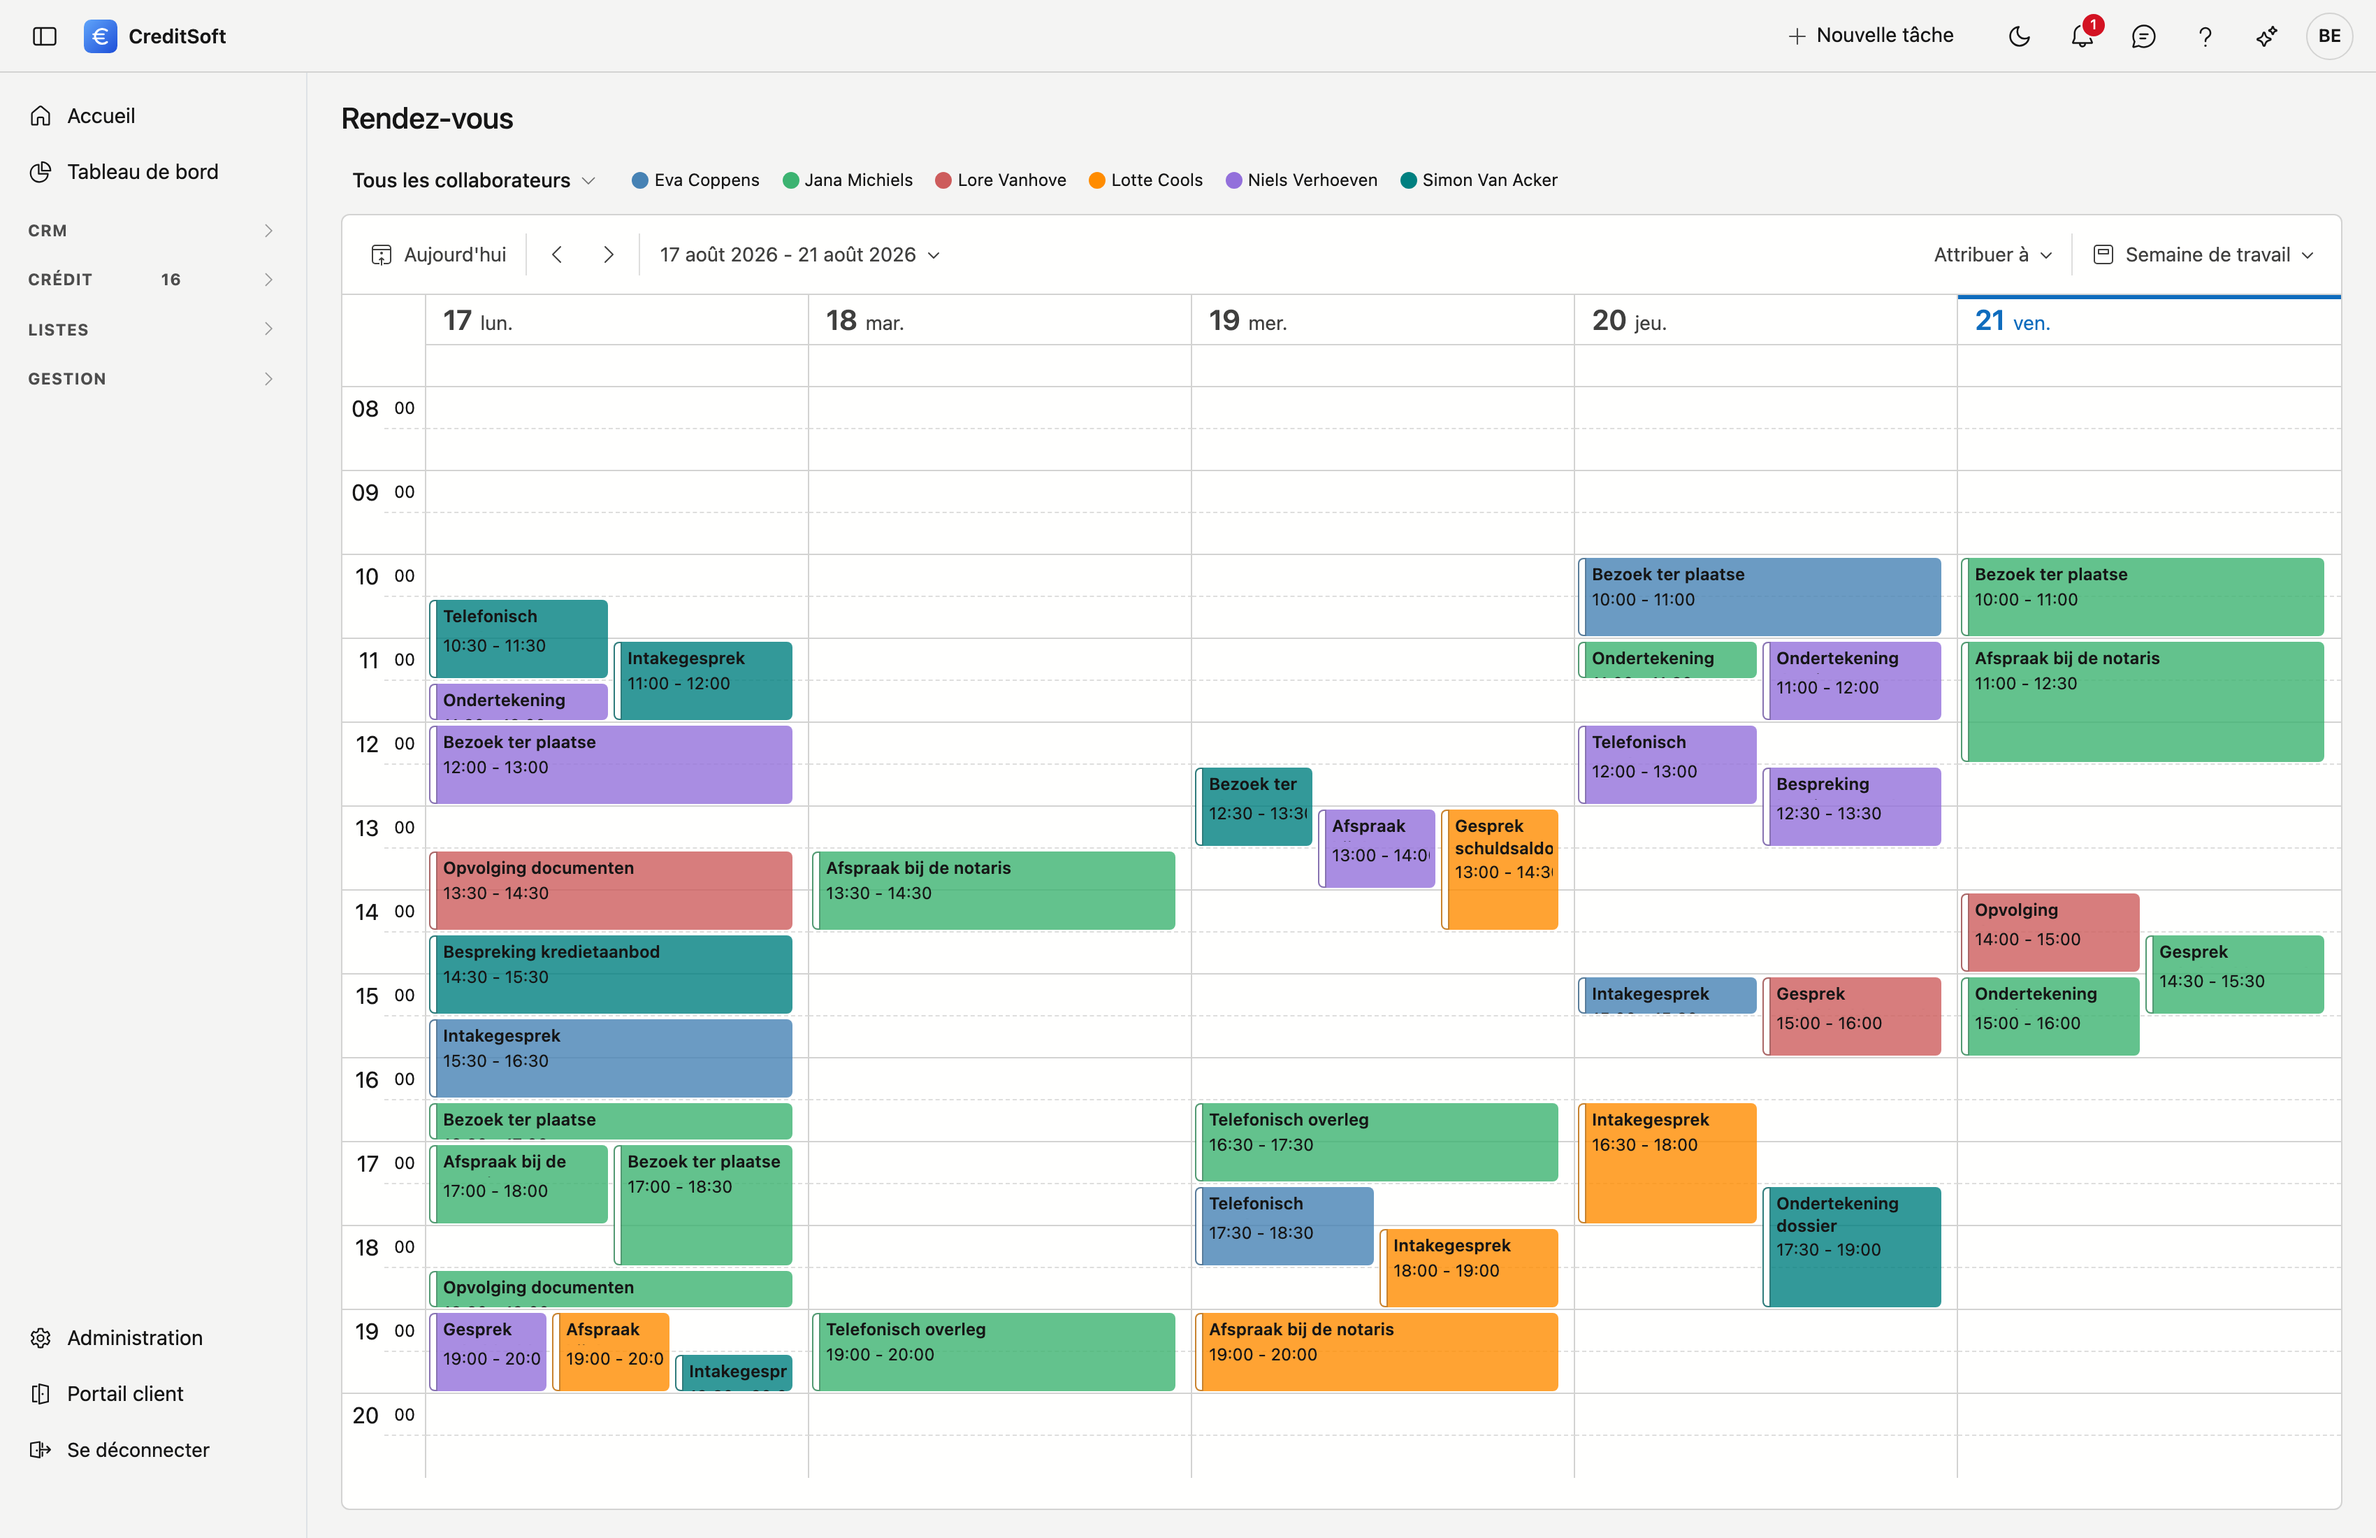
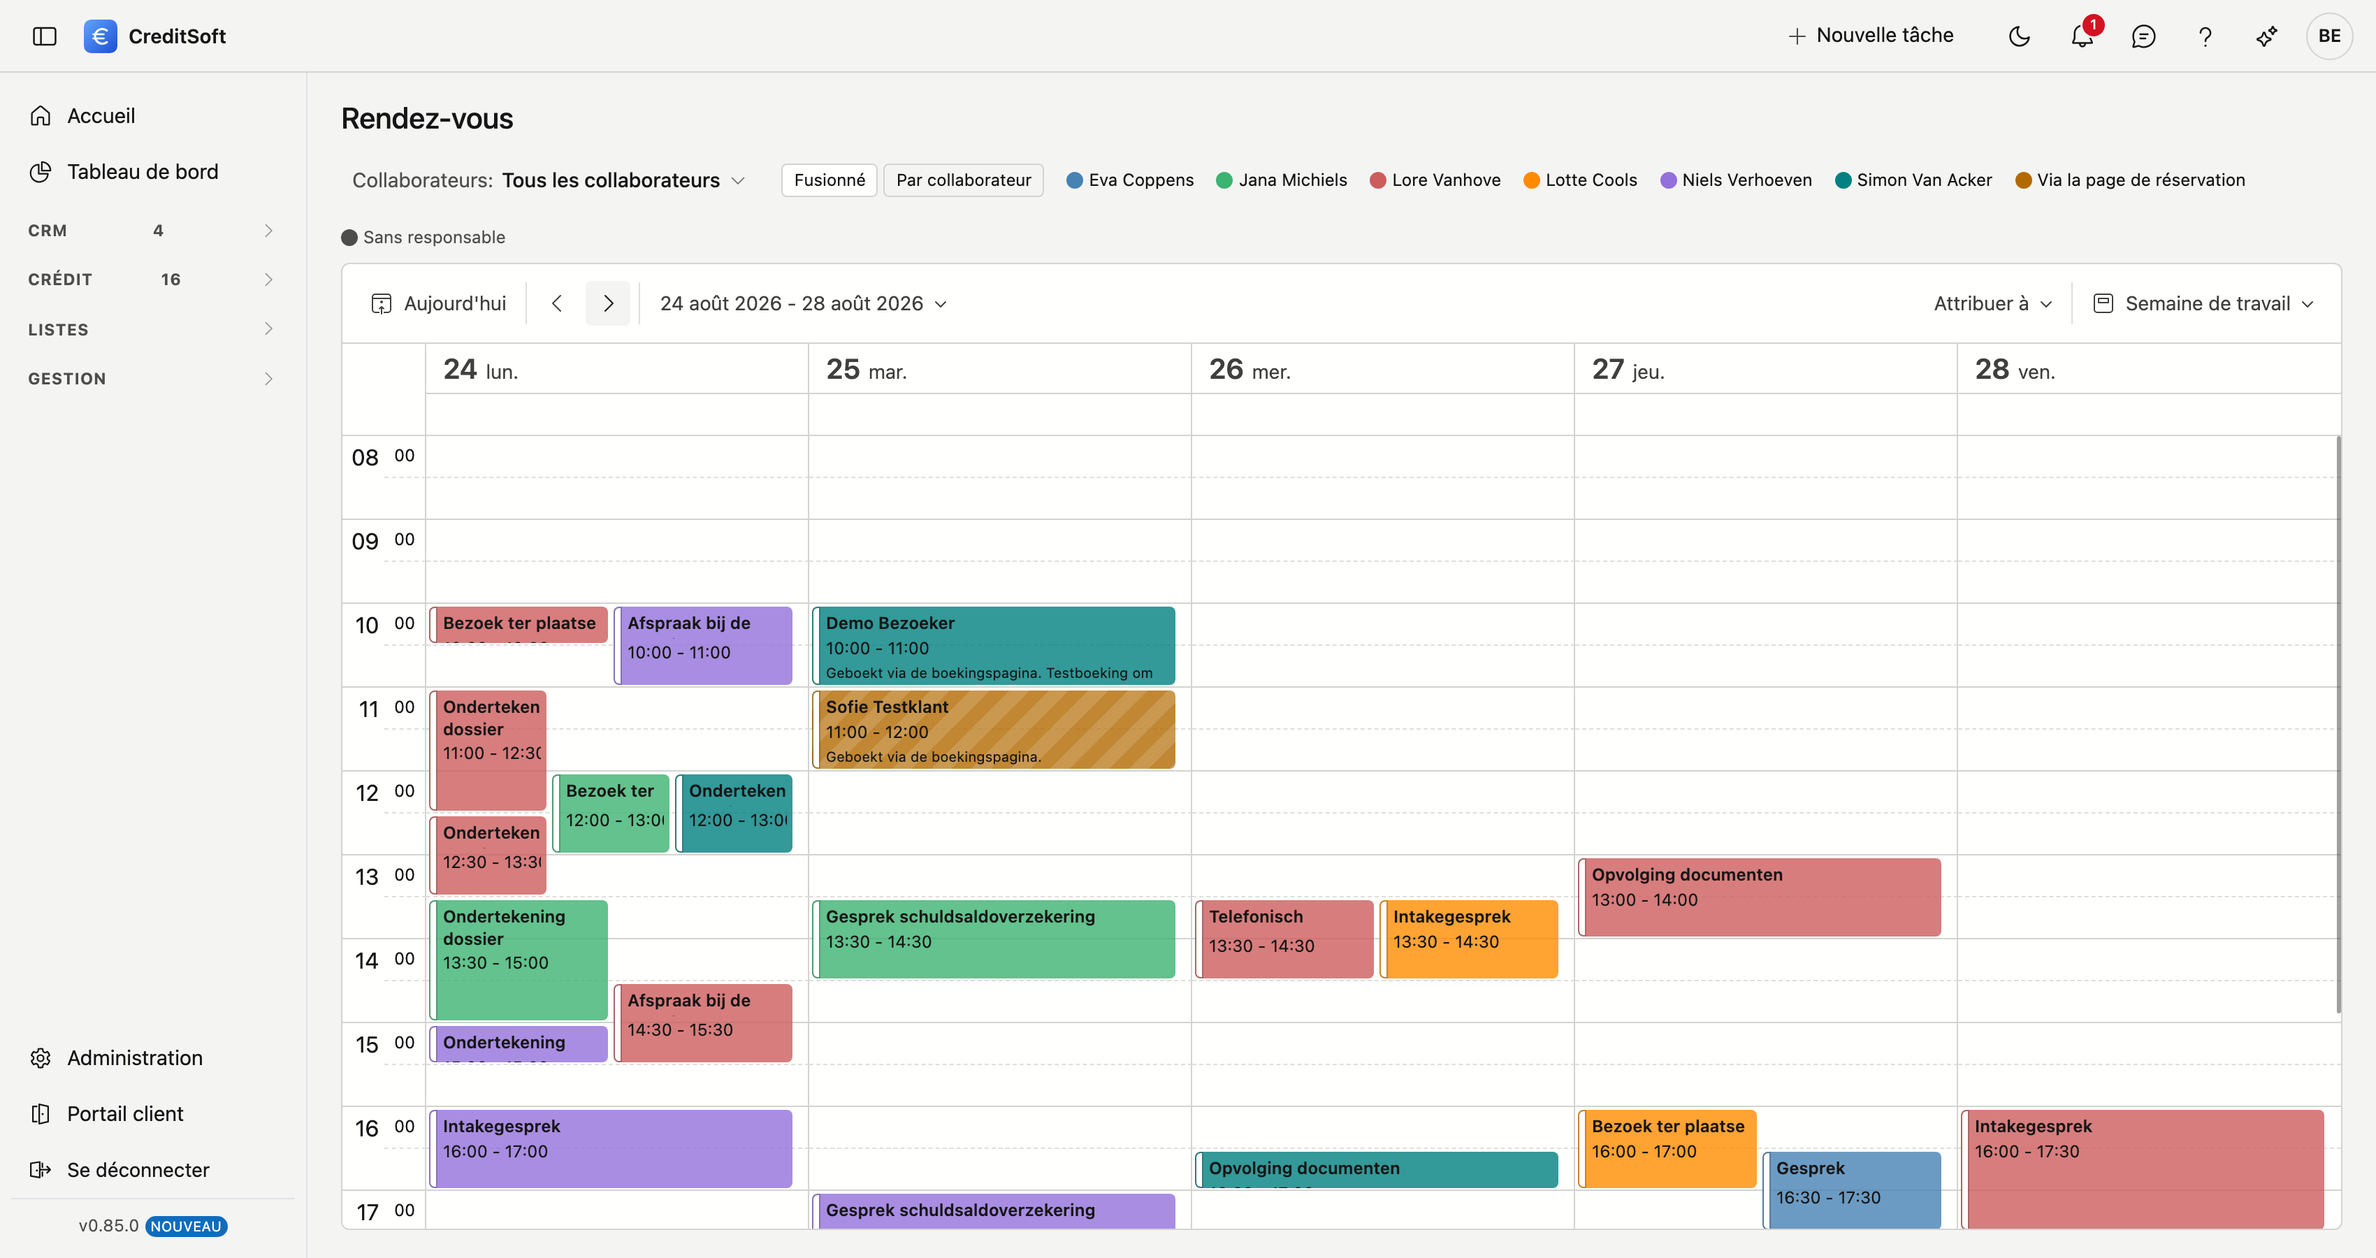
De agenda hernomen in beeld, en de kolomweergave erbij
TWEE BEELDEN HERNOMEN EN TWEE NIEUWE. De werkbalk van de agenda is in v0.85.0 gewijzigd — er staat
nu een medewerkerfilter en een keuze tussen Samengevoegd en Per medewerker — en het oude beeld toonde
die niet. De handleiding beschreef dus iets dat op het beeld ontbrak.

Het nieuwe beeld `afspraken-per-medewerker` is er één met een taak: de tekst legt uit dat je een
online boeking toewijst door haar uit haar eigen kolom naar een collega te slepen. Zonder beeld moet
de lezer geloven dat die kolom bestaat.

HET SCRIPT NAVIGEERT OP DE DATUMTITEL, en dat is niet vanzelfsprekend gegaan:
- "klik één keer vooruit" zette de dagweergave op zaterdag 29 — leeg. De dagweergave begint niet waar
  de werkweekweergave eindigde.
- zoeken op enkel "25" liep door tot 25 SEPTEMBER, want de werkweektitel luidt "24 augustus - 28
  augustus" en bevat dat dagnummer helemaal niet.
Nu zoekt hij per weergave zijn eigen volledige datum. Allebei die missers staan in het script en in
het manifest, want de volgende ronde loopt er anders opnieuw in.

De app is herstart vóór de opname: hij draaide nog van vóór de versiebump en zette v0.84.0 in de hoek.

diff --git a/BEELD-MANIFEST.md b/BEELD-MANIFEST.md
@@ -270,8 +270,16 @@
       particulier, met Opmerkingen en de knoppenbalk. Geplaatst 15/08/2026.
 - [x] `aanbrengers-boom.png` — ACHTERHAALD: `aanbrengers-lijst.png` op crm/contributors.md ís de boom (nagekeken 21/08/2026) — de boom met één hoofdaanbrenger uitgeklapt zodat de kantoren eronder zichtbaar
       zijn.
-- [x] `afspraken-week.png` — de werkweekweergave met de gekleurde legende bovenaan en afspraken van
-      meerdere medewerkers.
+- [x] `afspraken-week.png` + `-fr` — de werkweekweergave met de gekleurde legende bovenaan en afspraken
+      van meerdere medewerkers. **Hernomen 21/08/2026** (v0.85.0): de werkbalk heeft er een
+      medewerkerfilter en twee weergaveknoppen bij gekregen, en de week toont nu de twee
+      demo-boekingen van dinsdag 25/08 — de toegewezen in de kleur van Simon, de vrije in amber.
+- [x] `afspraken-per-medewerker.png` + `-fr` — GEPLAATST 21/08/2026 — de kolomweergave op dinsdag
+      25/08: acht kolommen, met de boeking van Simon in zijn kolom en de nog niet toegewezen boeking
+      in de eigen kolom *Via de boekingspagina*. Dát is het beeld waar de handleiding het slepen uitlegt.
+      ⚠ Beide beelden komen uit `tools/beelden-agenda.mjs`. Dat script navigeert op de **volledige
+      datumtitel** en niet op een aantal klikken: de dagweergave begint niet waar de werkweek eindigde
+      (dat gaf een leeg zaterdagbeeld), en zoeken op enkel het dagnummer liep door tot 25 september.
 - [x] `keuzelijsten.png` — het keuzelijsten-scherm met bovenaan de lijstkiezer en eronder de items van één
       lijst. Kies bij voorkeur een lijst waar een item met "(verwijderd)" in staat.
 - [x] `referentielijsten.png` — ACHTERHAALD: gedekt door `keuzelijsten.png` op beheer/keuzelijsten.md (nagekeken 21/08/2026) — de lijstkiezer met het nummer en enkele items.

diff --git a/docs/crm/meetings.fr.md b/docs/crm/meetings.fr.md
@@ -67,6 +67,8 @@ En haut figurent deux boutons :
 
 **Par collaborateur** est l'affichage pour attribuer : vous voyez d'un coup d'œil qui est encore libre à neuf heures, et vous faites glisser le rendez-vous vers sa colonne.
 
+![L'agenda en affichage par collaborateur : huit colonnes côte à côte avec en haut le nom de chaque collaborateur dans sa propre couleur, puis une colonne Via la page de réservation et une colonne Sans responsable. Dans la colonne de Simon Van Acker figure une réservation attribuée, dans la colonne des réservations une réservation pas encore attribuée, en ambre et hachurée.](../images/afspraken-per-medewerker-fr.png "Chaque collaborateur sa colonne — et les réservations en ligne à part, prêtes à être attribuées"){ .volle-breedte }
+
 Ce bouton bascule automatiquement en **affichage journalier**. Une semaine entière avec une colonne par collaborateur donne trente colonnes pour six collègues, et vous défilez alors latéralement dans votre propre agenda. Si vous voulez tout de même une semaine, choisissez-la simplement en haut à droite.
 
 !!! info "Le filtre fonctionne dans les deux"

diff --git a/docs/crm/meetings.md b/docs/crm/meetings.md
@@ -67,6 +67,8 @@ Bovenaan staan twee knoppen:
 
 **Per medewerker** is de weergave om iets toe te wijzen: u ziet in één blik wie er om negen uur nog vrij is, en u sleept de afspraak naar zijn kolom.
 
+![De agenda in de weergave per medewerker: acht kolommen naast elkaar met bovenaan de naam van elke medewerker in zijn eigen kleur, dan een kolom Via de boekingspagina en een kolom Zonder verantwoordelijke. In de kolom van Simon Van Acker staat een toegewezen boeking, in de boekingskolom staat een nog niet toegewezen boeking in amber met streepjes.](../images/afspraken-per-medewerker.png "Elke medewerker zijn kolom — en de online boekingen apart, klaar om toe te wijzen"){ .volle-breedte }
+
 Die knop schakelt vanzelf naar de **dagweergave**. Een hele week met een kolom per medewerker levert bij zes collega's dertig kolommen op, en dan scrolt u zijwaarts door uw eigen agenda. Wilt u toch een week zien, dan kiest u die gewoon rechtsboven.
 
 !!! info "Het filter werkt in allebei"
